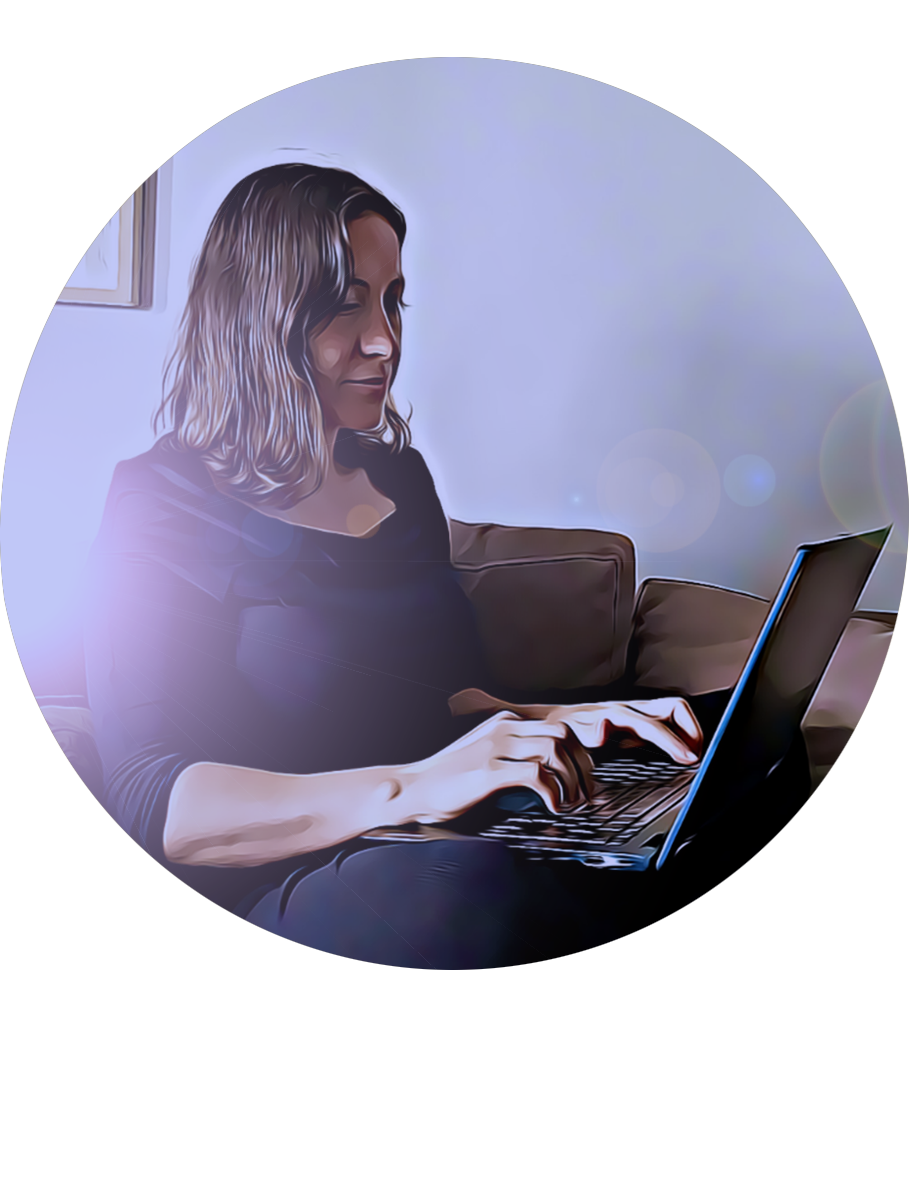
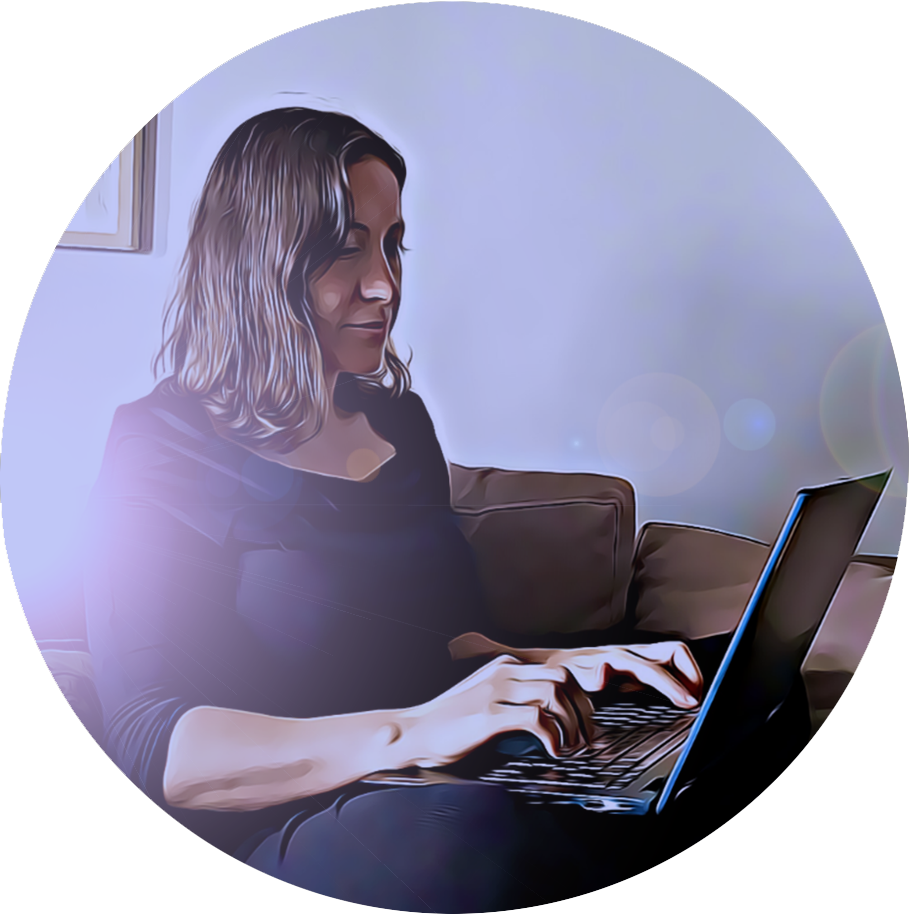
arreglos responsive

diff --git a/src/app/about/about.component.html b/src/app/about/about.component.html
@@ -1,11 +1,16 @@
 <div class="section-container">
-    <div class="section-title">
-        <h2>ABOUT</h2>
-    </div>    
-        <p>Neque porro quisquam est qui dolorem ipsum quia dolor sit amet, consectetur, adipisci velit..."<br>
-            "No hay nadie que ame el dolor mismo, que lo busque, lo encuentre y lo quiera, simplemente porque es el dolor."
-           Lorem ipsum dolor sit amet, consectetur adipiscing elit. Nunc et odio massa. Pellentesque quis viverra justo, sed faucibus tellus. Mauris scelerisque justo eget nulla consequat ultrices. Vestibulum ex eros, blandit ut ornare eu, egestas a nulla. Nam finibus ornare accumsan. <br>Nullam sed ipsum massa. Maecenas non condimentum augue. Integer blandit tempus tortor nec commodo. Aliquam ac tempor massa. Proin quis massa ac ex fermentum vestibulum. Proin neque enim, eleifend eget diam rutrum, cursus finibus enim. Integer imperdiet augue eget odio ultricies laoreet.                                   
-        <div class="info">
+    <div class="section-about">
+        <div class="section-title">
+            <h2>ABOUT</h2>            
+            <p>Neque porro quisquam est qui dolorem ipsum quia dolor sit amet, consectetur, adipisci velit..."<br>"No hay nadie que ame el dolor mismo, que lo busque, lo encuentre y lo quiera, simplemente porque es el dolor."
+            Lorem ipsum dolor sit amet, consectetur adipiscing elit. Nunc et odio massa. Pellentesque quis viverra justo, sed faucibus tellus. Mauris scelerisque justo eget nulla consequat ultrices. Vestibulum ex eros, blandit ut ornare eu, egestas a nulla. Nam finibus ornare accumsan.<br>Nullam sed ipsum massa. Maecenas non condimentum augue. Integer blandit tempus tortor nec commodo. Aliquam ac tempor massa. Proin quis massa ac ex fermentum vestibulum. Proin neque enim, eleifend eget diam rutrum, cursus finibus enim. Integer imperdiet augue eget odio ultricies laoreet.
+            </p>
+        </div>
+            <div class="gisela-img">
+                <img src="./assets/img/GiDevLuzAzul.png" alt="photo" class="gi-image"> 
+            </div>
+    </div>                                    
+        <div class="info">            
             <app-education/>
             <app-experience/>
             <app-resume/> 

diff --git a/src/app/commons/header/header.component.css b/src/app/commons/header/header.component.css
@@ -2,16 +2,47 @@
     margin: 0;
     border:1px solid rgba(255, 15, 15, 0)
 }
-.header-container h1 {
-    font-family: system-ui, -apple-system, BlinkMacSystemFont, 'Segoe UI', Roboto, Oxygen, Ubuntu, Cantarell, 'Open Sans', 'Helvetica Neue', sans-serif;
-    color: rgb(180, 180, 240);
-    width:100%;
+.header-container {
     box-shadow: rgba(179, 110, 194, 0.25) 0px 20px 40px -22px;
-    margin: 20px;
-
+    border-bottom-left-radius: 20px;
+    border-bottom-right-radius: 20px;
+    margin: 0px 20px 0px 20px;
 }
 
-.header-container .gi-image{
-    float:inline-end; 
-    width:400px;
+.section-title h1 {
+    font-family: system-ui, -apple-system, BlinkMacSystemFont, 'Segoe UI', Roboto, Oxygen, Ubuntu, Cantarell, 'Open Sans', 'Helvetica Neue', sans-serif;
+    font-size: 35px;
+    color: #5757ff89;
+    margin: 0px 0px 0px 20px;
 }
+.section-title h1 span{
+    font-family: system-ui, -apple-system, BlinkMacSystemFont, 'Segoe UI', Roboto, Oxygen, Ubuntu, Cantarell, 'Open Sans', 'Helvetica Neue', sans-serif;
+    font-size: 40px;
+    color: #afafffd5;
+}
+.section-title h2 {
+    font-family: system-ui, -apple-system, BlinkMacSystemFont, 'Segoe UI', Roboto, Oxygen, Ubuntu, Cantarell, 'Open Sans', 'Helvetica Neue', sans-serif;
+    font-size: 35px;
+    color: #d9b7fda3;
+    text-indent: 150px;    
+}
+
+.section-title{
+    margin-bottom: 30px;
+}
+ /* Media query para dispositivos con un ancho máximo de 767 píxeles (por ejemplo, teléfonos móviles) */
+ @media only screen and (max-width: 767px) {
+    .section-title h1 {
+        font-size: 30px;
+    }
+    .section-title h1 span{
+        font-size: 35px;
+    }
+    .section-title h2 {
+        font-size: 30px;
+        text-indent: 150px;    
+    }
+    
+
+    
+  }

diff --git a/src/app/about/about.component.css b/src/app/about/about.component.css
@@ -1,32 +1,55 @@
-*{
-  margin: 0;
-  border:1px solid rgba(254, 0, 0, 0);
-  background-color: rgba(0, 222, 222, 0);
-}
-
 .section-container {
     height: fit-content;
-    border-radius: 30px;
+    border-radius: 20px;
     padding: 0; 
-    padding-right:50px;
     justify-content: center;
     background-color: rgba(57, 47, 65, 0.221);
     margin: 20px 10px 20px 10px;
     box-shadow: rgba(179, 110, 194, 0.25) 0px 25px 50px -12px;
+}
+.section-about{
+  width: 95%;
+  display : flex;
+  justify-content: space-evenly;
+  align-content: center;
+}  
 
-
-  }
-  .section-title{
-    margin: 20px 30px 20px 40px;
-  }
-  .section-title h2{  
-    font-size: 30px;
-    color: rgb(180, 180, 240);
-    text-align: center;
-    margin: 20px 0px;
-    font-family: Verdana, Geneva, Tahoma, sans-serif;
+.section-title{
+  margin: 30px 30px 30px 30px;
+}
+.section-title h2{  
+  font-size: 30px;
+  color: rgb(180, 180, 240);
+  text-align: center;
+  margin: 20px 0px;
+  font-family: Verdana, Geneva, Tahoma, sans-serif;
 }
 p{
-  width: 70%;
-  text-align:justify;  
+  text-align: center; 
+}
+.gisela-image{
+  float:left; 
+}
+.gi-image{
+  margin-top: 30%;
+  width:350px;
+}
+.info{
+  margin: -150px 0px 50px 30px;
+}
+
+ /* Media query para dispositivos con un ancho máximo de 767 píxeles (por ejemplo, teléfonos móviles) */
+ @media only screen and (max-width: 767px) {
+  .section-about {
+    flex-direction: column; /* Cambia la dirección del flexbox a columna */
+    align-items: center; /* Centra los elementos en el eje transversal */
+  }
+  
+  .gi-image{
+    width: 250px;
+  }
+  .info{
+    margin: 0px 0px 40px 10px;
+  }
+  
 }

diff --git a/src/app/home/home.component.css b/src/app/home/home.component.css
@@ -38,3 +38,24 @@ button{
     color: white;
     border-radius: 18px;
 }
+@media only screen and (max-width: 767px) {
+    .popup-overlay {
+        position: fixed;
+        top: 0;
+        left: 0;
+        width: 80%;
+        height: 80%;
+        background: rgba(0, 0, 0, 0.5);
+        display: flex;
+        justify-content: center;
+        align-items: center;
+    }
+    
+    .popup-container {
+        background: #ffea01a1;
+        padding: 20px;
+        border-radius: 20px;
+        text-align: center;
+    }
+
+}

diff --git a/src/app/commons/header/header.component.ts b/src/app/commons/header/header.component.ts
@@ -6,8 +6,10 @@ import { Component } from '@angular/core';
   imports: [],
   template: `
   <div class="header-container">
-    <h1> HEY I AM {{name.toUpperCase()}} <br> &ensp; BUT YOU CAN CALL ME {{nickname.toUpperCase()}}</h1>  
-    <img src="./assets/img/GiDevLuzAzul.png" alt="photo" class="gi-image"> 
+    <div class="section-title">
+      <h1> HEY I AM <span>{{name.toUpperCase()}}</span></h1>
+      <h2>BUT YOU CAN CALL ME {{nickname.toUpperCase()}}</h2>  
+    </div> 
   </div> 
  `, 
   styleUrl: './header.component.css'

diff --git a/src/app/contact/contact.component.css b/src/app/contact/contact.component.css
@@ -1,5 +1,4 @@
 * {
-    margin: 0;
     border: 1px solid rgba(254, 0, 0, 0);
     background-color: #00dede00;
 }
@@ -64,7 +63,7 @@ textarea {
     box-sizing: border-box;
     margin-top: 5px;
     margin-bottom: 10px;
-    border: 1px solid #ccc;
+    border: 1px solid #00000080;
     border-radius: 4px;
 }
 

diff --git a/src/app/education/education.component.css b/src/app/education/education.component.css
@@ -1,13 +1,12 @@
+*{
+  margin: 0;
+}
 li{
   list-style: none;
   margin-bottom: 20px;
 
 }
 
-*{
-  margin: 0;
-  border:1px solid rgba(255, 0, 0, 0)
-}
 .section-container  {
   margin: 20px 20px 20px 20px;
 }

diff --git a/src/app/app.component.css b/src/app/app.component.css
@@ -1,8 +1,3 @@
-*{
-    margin: 0;
-    border:1px solid rgba(255, 15, 15, 0)
-}
-
 iframe{
     border-radius: 20px;
     box-shadow: rgba(179, 110, 194, 0.25) 0px 25px 50px -12px;

diff --git a/src/app/projects/projects.component.css b/src/app/projects/projects.component.css
@@ -1,7 +1,4 @@
-*{
-  margin: 0;
-  border:1px solid rgba(254, 0, 0, 0)
-}
+
 .section-container {
   height: fit-content;
   margin: 30px 0px 30px 0px;
